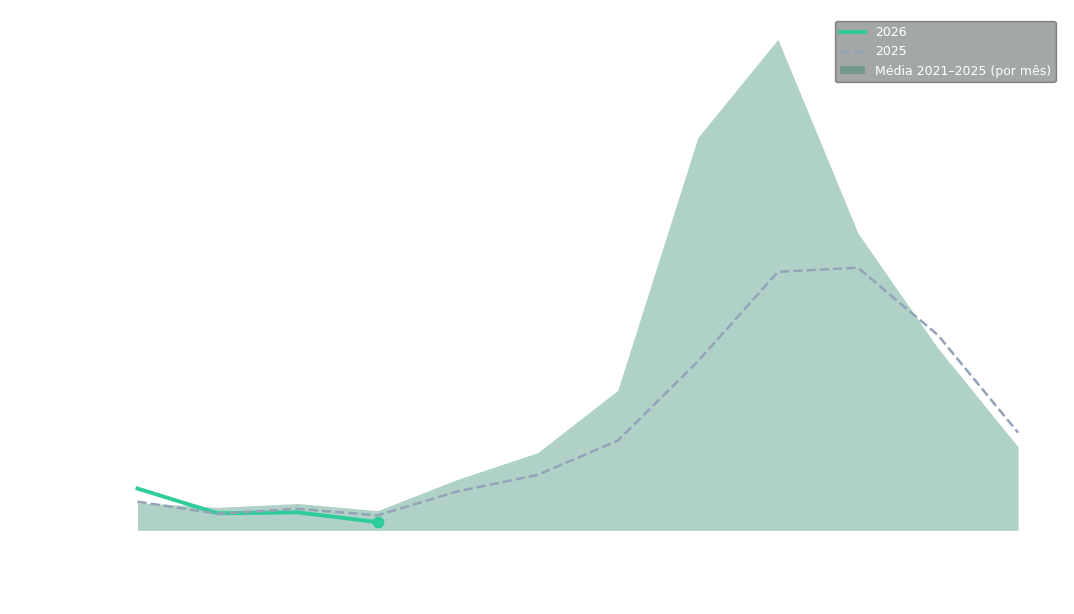
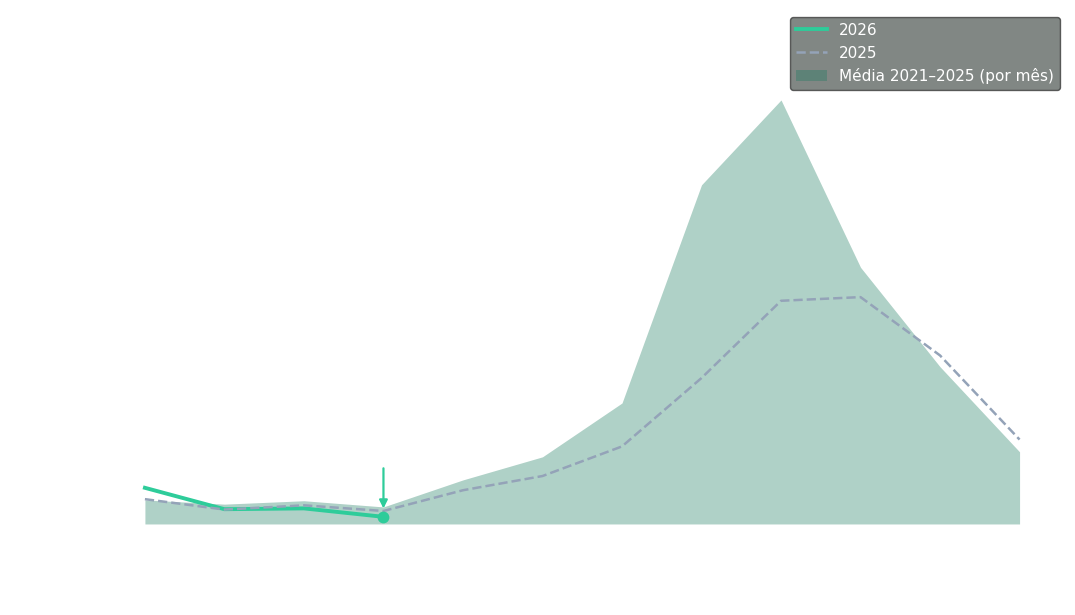
dev: structure setted for autogeneration

diff --git a/apps/social-post-templates/green/slides/cover.html b/apps/social-post-templates/green/slides/cover.html
@@ -25,7 +25,7 @@
       <div class="absolute top-16 left-12 w-0.5 h-24" style="background: var(--accent); opacity: 0.6;"></div>
 
       <div class="absolute flex flex-col items-end text-right"
-           style="top: 220px; right: 48px; width: 520px;">
+           style="top: 220px; right: 48px; width: 600px;">
         <p class="font-semibold mb-4 tracking-widest uppercase" style="font-size: 22px; color: var(--accent); line-height: 1.25;" data-slot="series_label">
           <!-- slot: series_label -->
           Análise de dados

diff --git a/src/forest_pipelines/social/bdqueimadas_monthly_chart.py b/src/forest_pipelines/social/bdqueimadas_monthly_chart.py
@@ -351,6 +351,7 @@ def render_chart_png(
         )
 
     valid_idx = np.flatnonzero(~np.isnan(cur))
+    li: int | None = None
     if valid_idx.size > 0:
         li = int(valid_idx[-1])
         ax.scatter(
@@ -364,9 +365,9 @@ def render_chart_png(
         )
 
     ax.set_xticks(x)
-    ax.set_xticklabels(labels, fontsize=8, color=_WHITE, rotation=0, ha="center")
-    ax.set_xlabel("Mês", fontsize=11, color=_WHITE, labelpad=6)
-    ax.set_ylabel("Nº de focos", fontsize=11, color=_WHITE, labelpad=6)
+    ax.set_xticklabels(labels, fontsize=12, color=_WHITE, rotation=0, ha="center")
+    ax.set_xlabel("Mês", fontsize=14, color=_WHITE, labelpad=8)
+    ax.set_ylabel("Nº de focos", fontsize=12, color=_WHITE, labelpad=6)
 
     # Não usar MaxNLocator no eixo X: ele reduz o número de ticks e some rótulos de meses.
     ax.yaxis.set_major_locator(MaxNLocator(integer=True, nbins=9))
@@ -374,7 +375,8 @@ def render_chart_png(
         mticker.FuncFormatter(lambda v, _pos: f"{int(v):,}".replace(",", "."))
     )
 
-    ax.tick_params(axis="both", labelsize=10, colors=_WHITE)
+    ax.tick_params(axis="x", labelsize=12, colors=_WHITE)
+    ax.tick_params(axis="y", labelsize=11, colors=_WHITE)
     ax.grid(False)
     ax.set_axisbelow(True)
     for spine in ("top", "right"):
@@ -406,16 +408,58 @@ def render_chart_png(
             label=avg_legend_label,
         )
     )
+    # Legenda colada ao canto superior direito da área do gráfico (coordenadas do eixo).
     ax.legend(
         handles=legend_handles,
         frameon=True,
         facecolor=(0.1, 0.14, 0.12),
         edgecolor=(0.0, 0.0, 0.0, 0.0),
-        fontsize=9,
+        fontsize=11,
         loc="upper right",
+        bbox_to_anchor=(1.0, 1.0),
+        borderaxespad=0.2,
         labelcolor=_WHITE,
-        framealpha=0.4,
+        framealpha=0.55,
     )
+
+    # Valor no último ponto (mesmo da bolinha): rótulo acima + seta até o marcador.
+    if li is not None:
+        last_val = int(cur[li])
+        val_lbl = f"{last_val:,}".replace(",", ".")
+        ymin, ymax = ax.get_ylim()
+        yspan = ymax - ymin if ymax > ymin else 1.0
+        # Espaço extra no topo para o texto e a seta não serem cortados.
+        headroom = yspan * 0.14
+        ax.set_ylim(ymin, ymax + headroom)
+
+        # Meses finais: desloca o texto um pouco à esquerda para não colidir com a legenda.
+        tx = float(x[li])
+        if li >= 9:
+            tx = max(x[li] - 0.55, -0.2)
+        ty = float(cur[li]) + yspan * 0.11
+
+        ax.annotate(
+            val_lbl,
+            xy=(float(x[li]), float(cur[li])),
+            xytext=(tx, ty),
+            textcoords="data",
+            ha="center",
+            va="bottom",
+            fontsize=12,
+            fontweight="bold",
+            color=_WHITE,
+            zorder=8,
+            clip_on=False,
+            arrowprops={
+                "arrowstyle": "-|>",
+                "color": _CUR,
+                "lw": 1.6,
+                "shrinkA": 0,
+                "shrinkB": 6,
+                "mutation_scale": 12,
+                "connectionstyle": "arc3,rad=0",
+            },
+        )
 
     fig.tight_layout()
     out_path.parent.mkdir(parents=True, exist_ok=True)
@@ -724,7 +768,7 @@ def write_bdqueimadas_manifest(spec: dict[str, Any], path: Path) -> None:
                     "topic_tag": "Queimadas & Clima",
                     "published_at": published_at,
                     "series_label": "Série temporal",
-                    "title": "Focos de calor no Brasil",
+                    "title": "Focos de incêndio no Brasil",
                     "summary": (
                         f"Comparativo mês a mês: {ly} (parcial) vs "
                         f"{py if py is not None else '—'} "
